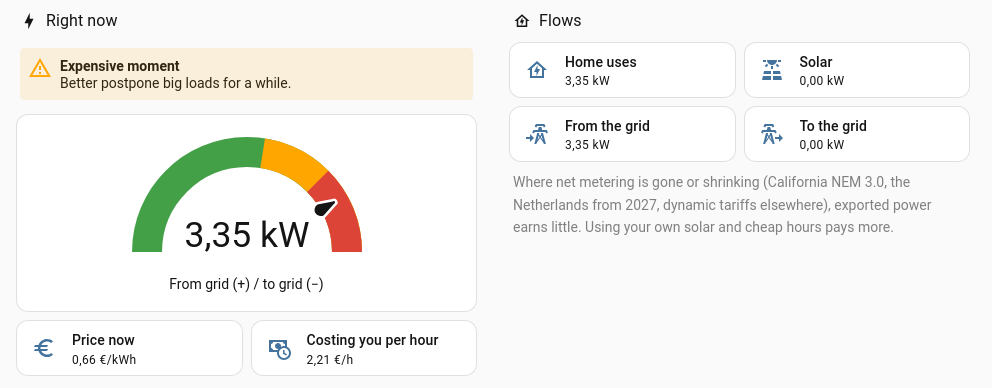
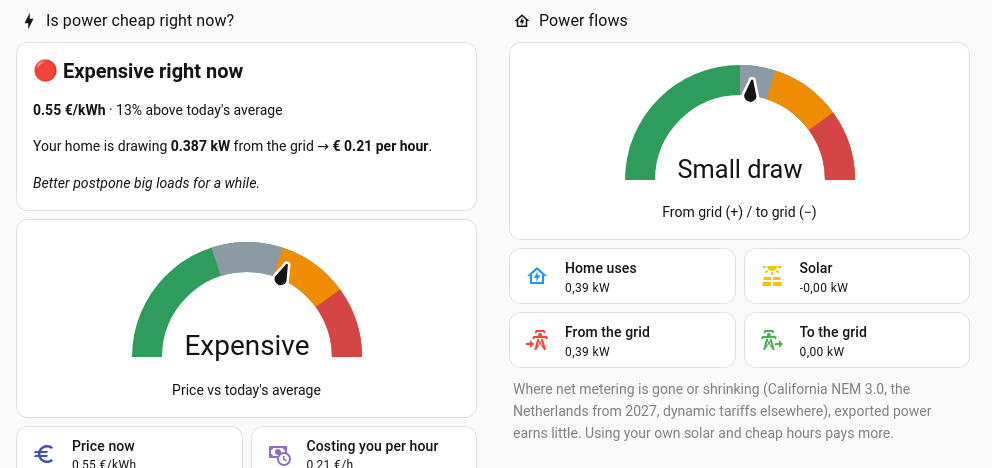
Energy Now v0.2: status line, price-vs-average gauge, colour-coded flows

diff --git a/README.md b/README.md
@@ -5,9 +5,11 @@ my home costing me per hour?**
 
 ![Energy Now dashboard](screenshot.png)
 
-- **Cheap / normal / expensive / negative** price compared to today's average, with a simple tip
-- **Cost per hour right now** (net power × price)
-- Import, export, solar and home usage, plus the last 24 hours
+- **One clear status line:** "🔴 Expensive right now · 0.55 €/kWh · 13% above today's average · your home costs € 0.21/h"
+- **Price gauge** vs today's average: cheap / normal / expensive / very expensive
+- **Cost per hour right now** (net power × price), also when you export
+- **Power-flow gauge** and colour-coded tiles for import, export, solar and home usage
+- The last 24 hours of price (with today's average) and power
 - **Core Home Assistant only**: no HACS, no custom cards. You edit 4 lines.
 - Versions for **€, $, £ and A$**
 
@@ -23,6 +25,11 @@ and Tibber, Octopus Agile, Nord Pool, Amber, EnergyZero or any other "price now"
 
 Full step-by-step guide and FAQ: [GUIDE.md](GUIDE.md).
 
+## What's new in 0.2
+- Status line at the top and a price-vs-average gauge
+- Colour-coded flow tiles, cleaner graphs (price with today's average)
+- Two new sensors: `sensor.energy_now_average_price`, `sensor.energy_now_price_vs_average`
+
 ## Full version
 A paid full version is in the works: daily and monthly costs, the cheapest hours today and tomorrow, a standby-power
 finder and a battery/solar savings calculator. Want an e-mail when it's ready? Get the free download (and say "yes")
@@ -31,4 +38,4 @@ here: **https://payhip.com/b/aomDO**
 ## Feedback
 Found a bug, or is your meter or price provider not working? Please open an issue.
 
-Tested with Home Assistant 2026.11. Version 0.1. MIT licensed.
+Tested with Home Assistant 2026.11. Version 0.2. MIT licensed.

diff --git a/GUIDE.md b/GUIDE.md
@@ -15,7 +15,7 @@ Core Home Assistant only: no HACS and no custom cards. Version 0.1, tested with 
    - **Shelly EM / Shelly Pro 3EM**, **IoTaWatt**, **Emporia Vue**, **SolarEdge** or a **Tesla Powerwall** (*Site power*).
 2. **A price-now sensor** (all-in, per kWh): **Tibber**, **Octopus Energy** (Agile), **Nord Pool**, **Amber Electric**,
    **EnergyZero**, **Frank Energie**, **ANWB**, or any other integration that gives the current price.
-3. Optional: a **solar power** sensor and an **average price today** sensor. The average enables the cheap/expensive tip.
+3. Optional: a **solar power** sensor and an **average price today** sensor. The average enables the cheap/expensive tip and the price gauge (EnergyZero, Nord Pool and Tibber provide one; otherwise create a statistics helper).
 
 ## Install (± 10 minutes)
 1. Pick the file for your currency: `energy_now_EUR.yaml`, `energy_now_USD.yaml`, `energy_now_GBP.yaml` or `energy_now_AUD.yaml`.

diff --git a/CHANGELOG.md b/CHANGELOG.md
@@ -1,0 +1,11 @@
+# Changelog
+
+## 0.2 (2026-11-11)
+- Status line ("Cheap / Expensive right now") with price, % vs today's average and cost per hour
+- Price-vs-average gauge with cheap/normal/expensive segments
+- Power-flow gauge with segments; colour-coded tiles
+- New sensors: average price, price vs average (%)
+- Solar never shows -0.00
+
+## 0.1 (2026-11-11)
+- First release: price advice, cost per hour, import/export/solar/home, 24 h graphs; EUR/USD/GBP/AUD
